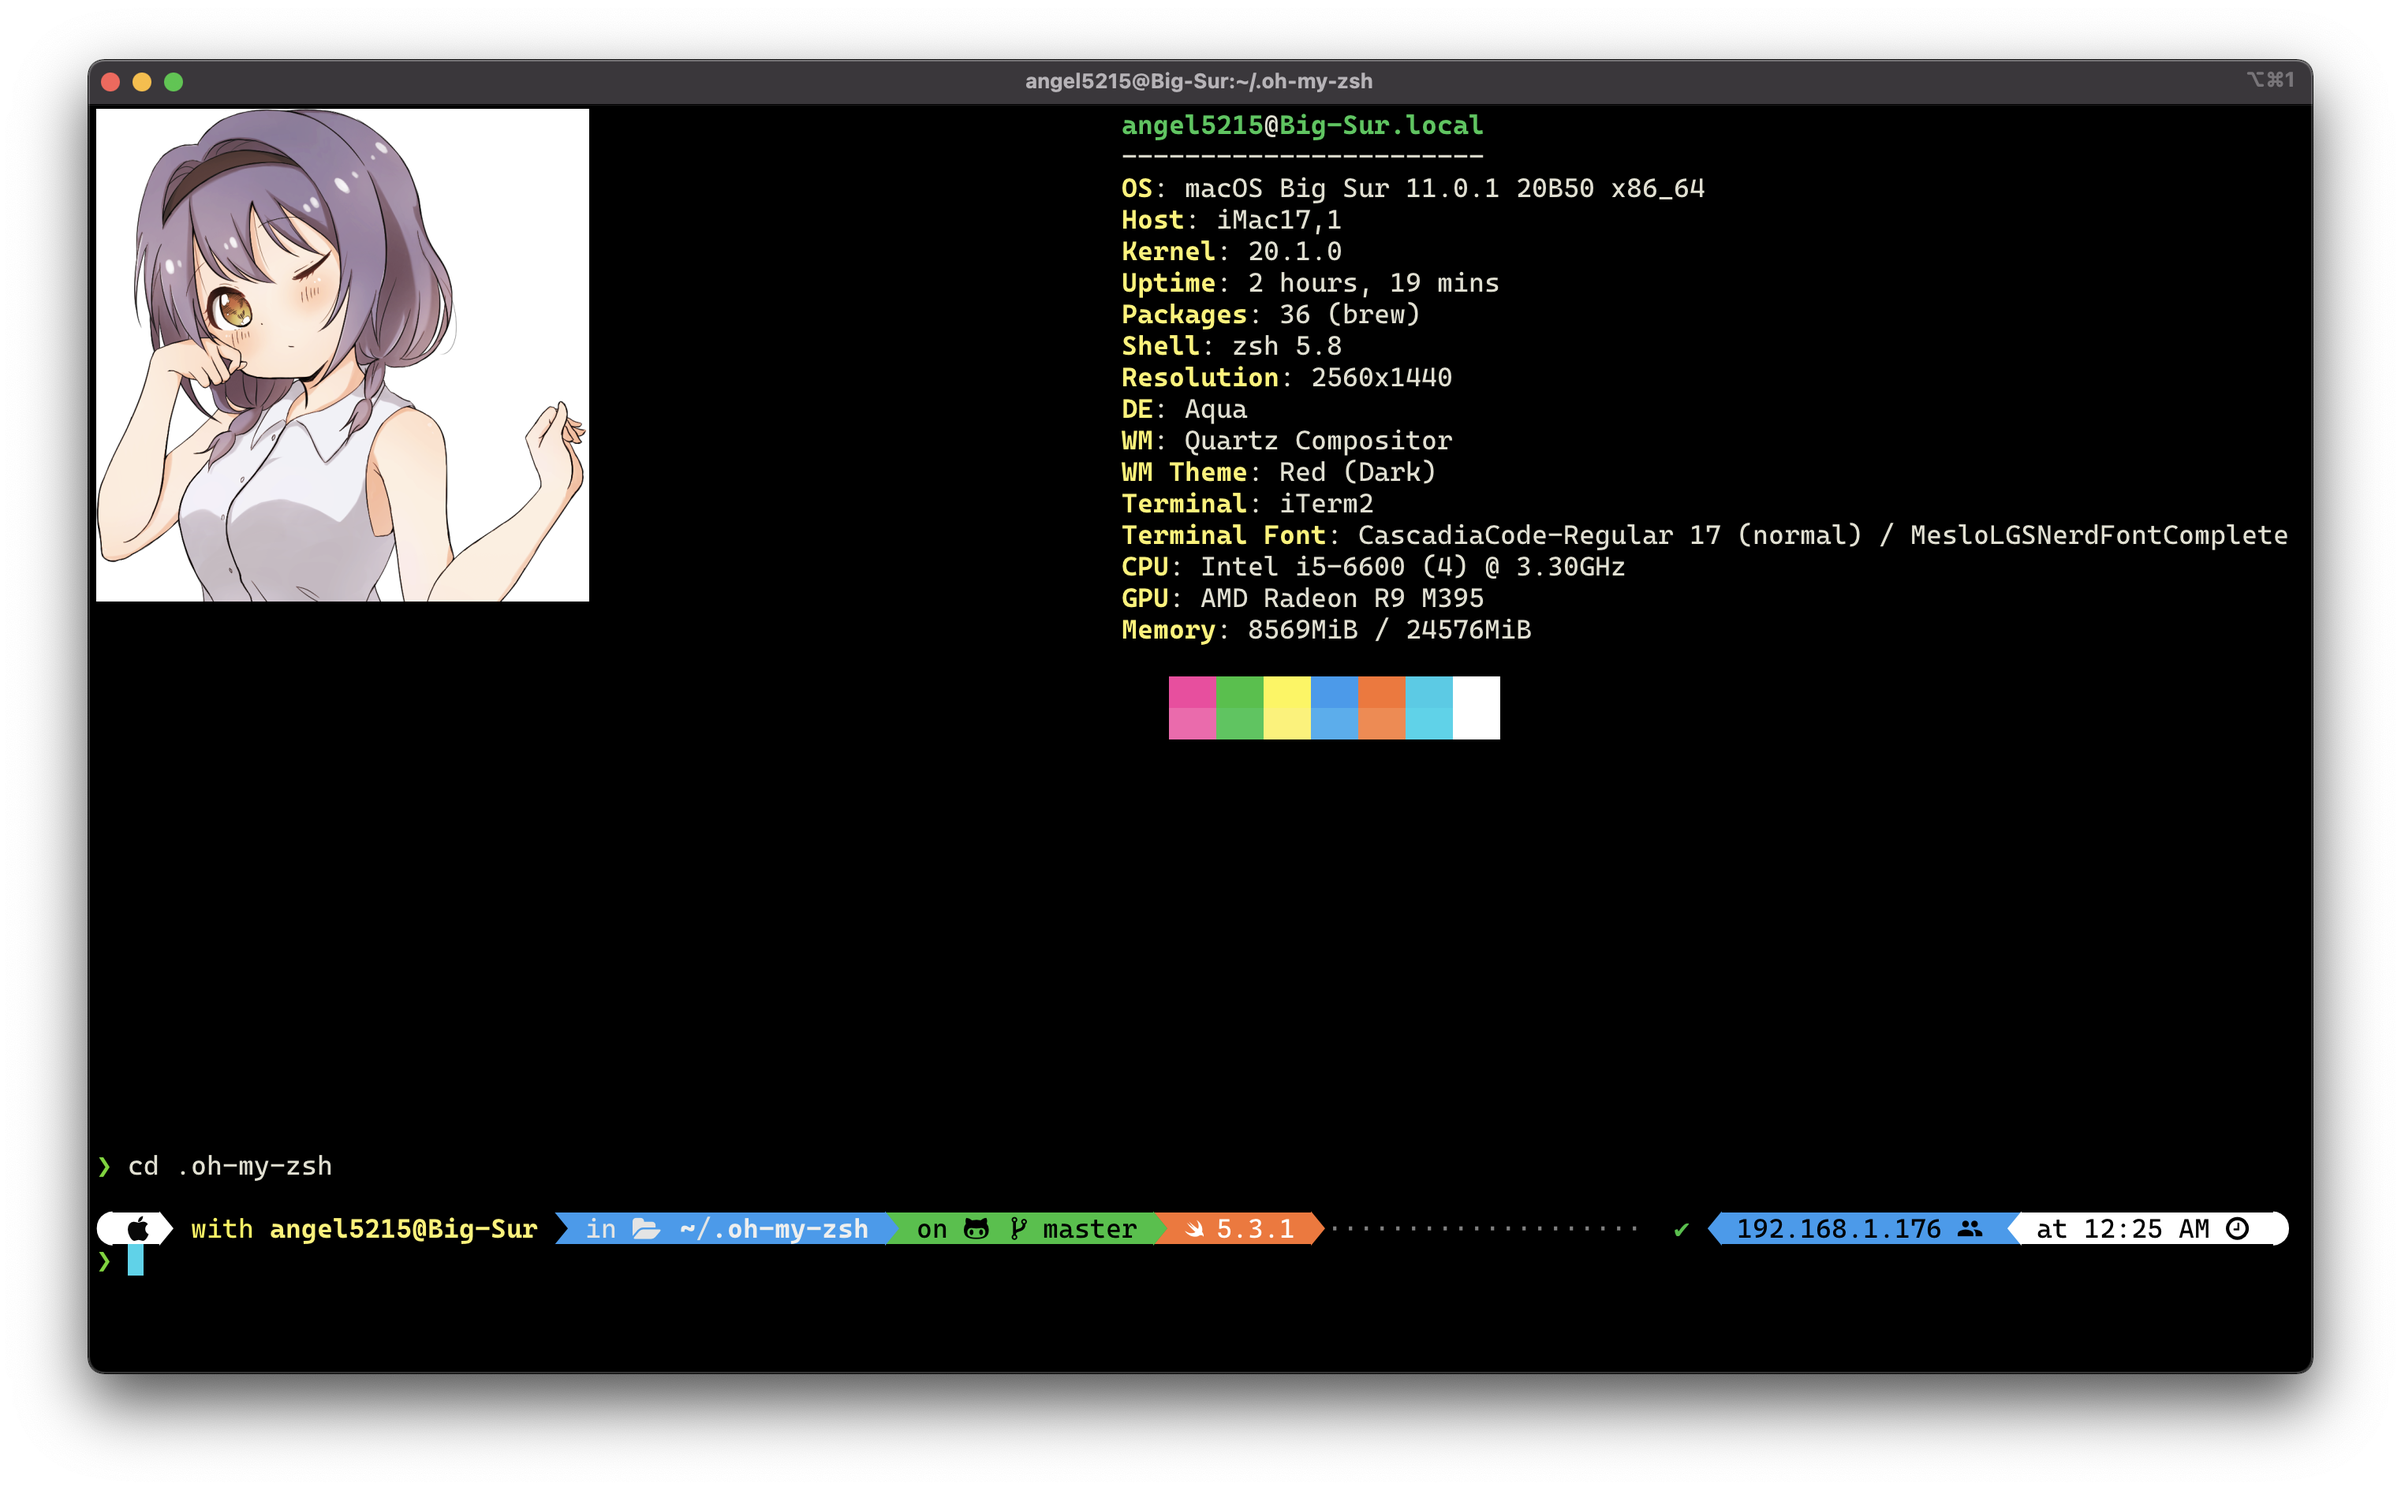
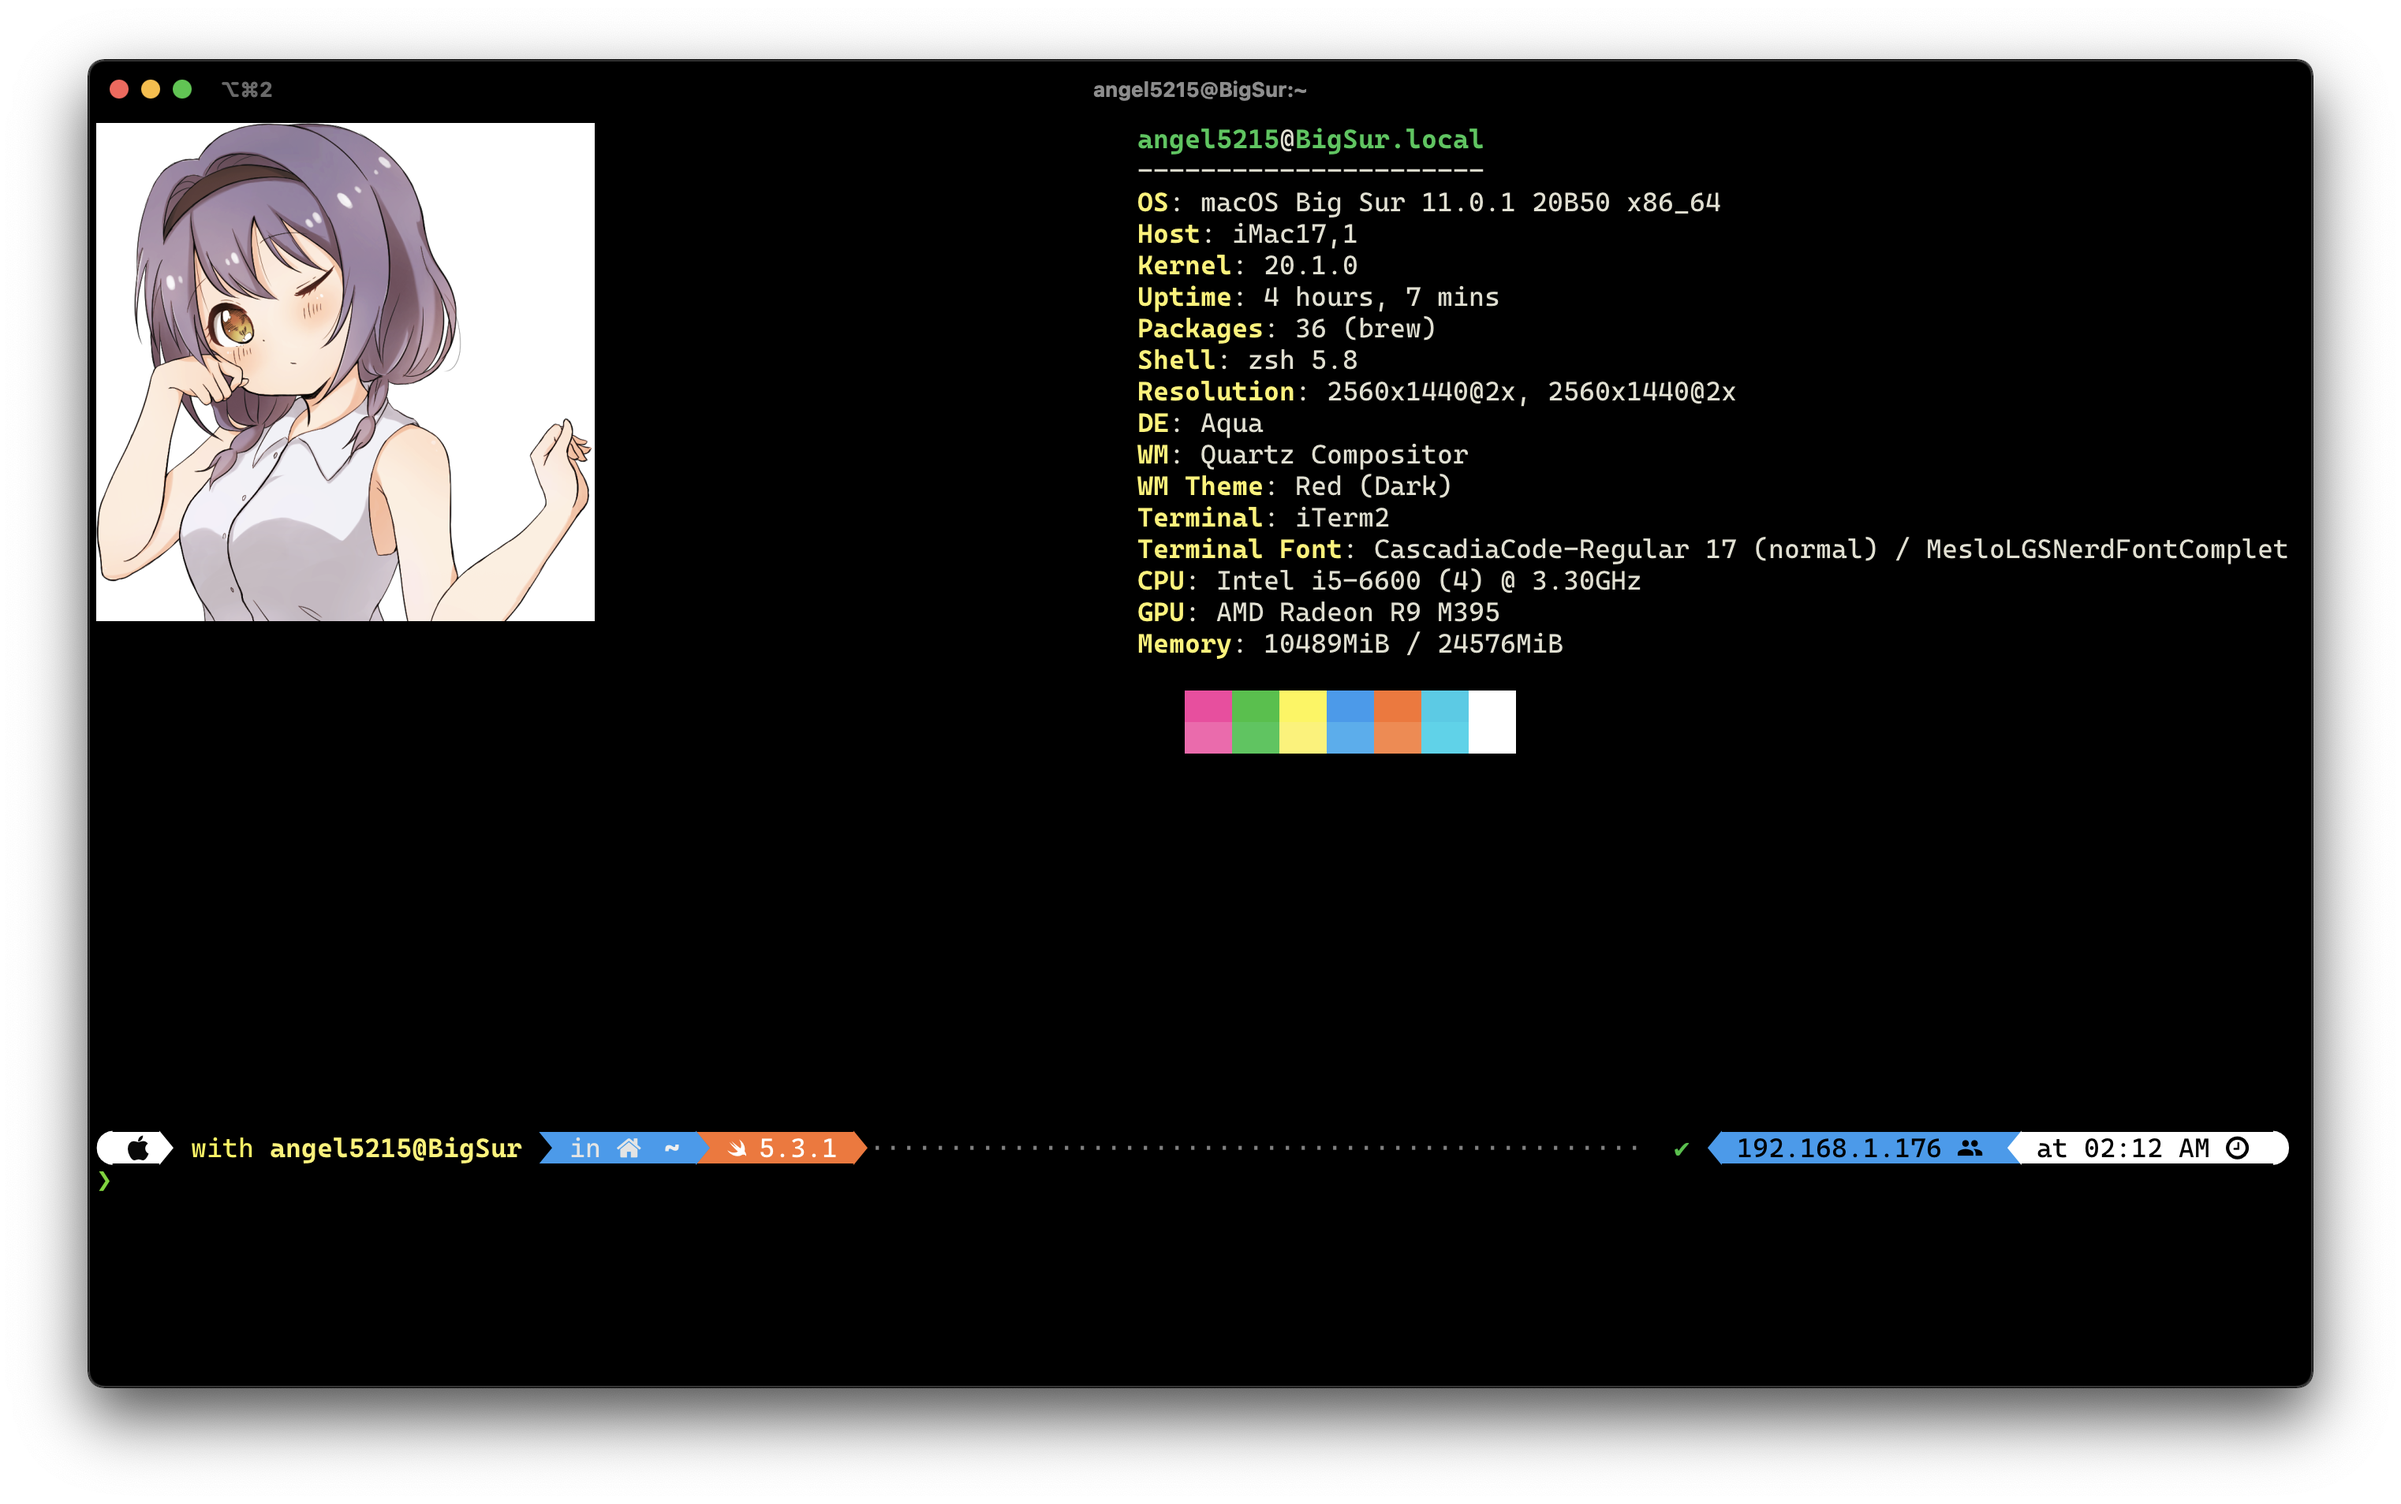
Add steps to install neofetch, fortune and cowsay using Homebrew for the terminal setup tutorial

diff --git a/terminal-setup-tutorial-en.md b/terminal-setup-tutorial-en.md
@@ -118,3 +118,34 @@ After Oh My Zsh installs successfully, you should see the following in your term
   <img src="img/09-oh-my-zsh-success.png"/>
 </p>
 
+## Install commands and fonts
+
+> Neofetch is a command-line system information tool written in bash 3.2+. Neofetch displays information about your operating system, software and hardware in an aesthetic and visually pleasing way.–https://github.com/dylanaraps/neofetch
+
+6. Install `neofetch` using [Homebrew](https://github.com/dylanaraps/neofetch/wiki/Installation#macos-homebrew)
+
+```zsh
+brew install neofetch
+```
+
+After installing, you can verify by running the `neofetch` command in your terminal. You should a screen similar to this:
+
+<p align="center">
+  <img src="img/10-neofetch.png"/>
+</p>
+
+### Extras
+
+These commands are not necessary, but they are included because you might want to display a different ASCII art in your terminal instead of an image. 
+
+- Fortune
+
+> `fortune` is a program that displays a pseudorandom message from a database of quotations.—https://en.wikipedia.org/wiki/Fortune_(Unix)
+
+- Cowsay
+
+> `cowsay` is a program that generates ASCII pictures of a cow with a message. It can also generate pictures using pre-made images of other animals, such as Tux the Penguin, the Linux mascot.—https://en.wikipedia.org/wiki/Cowsay
+
+```zsh
+brew install fortune cowsay
+```
